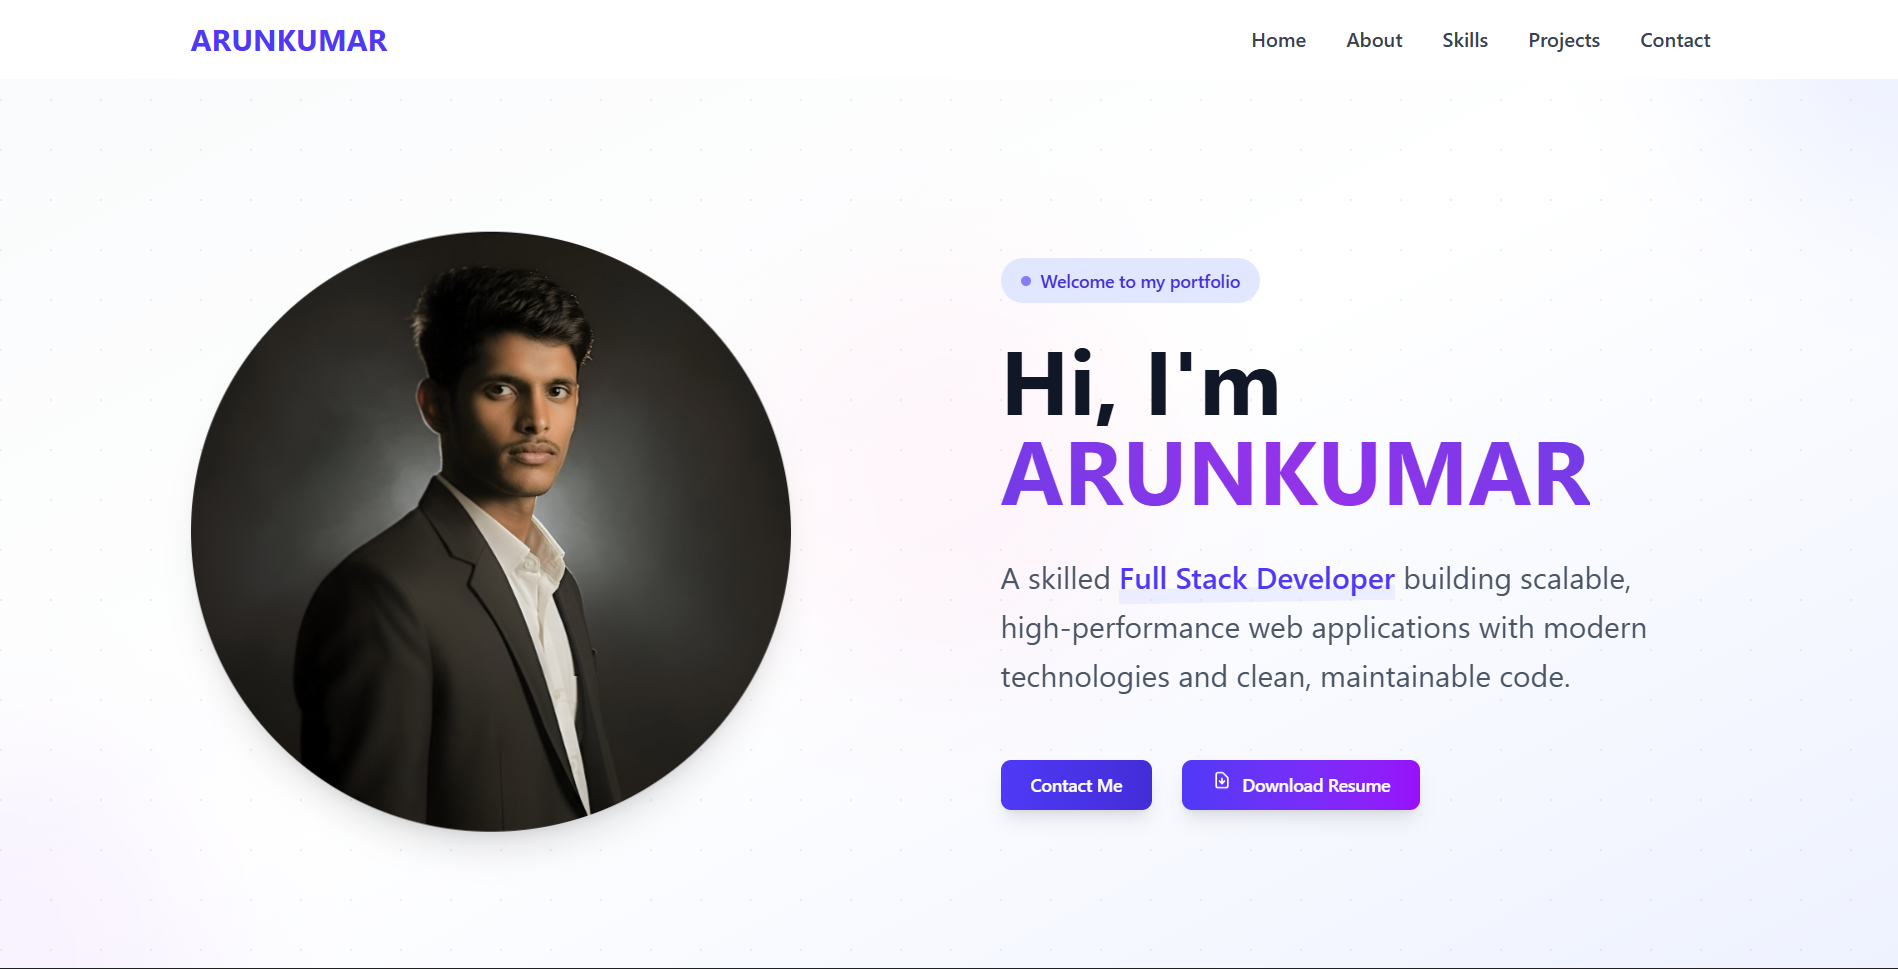
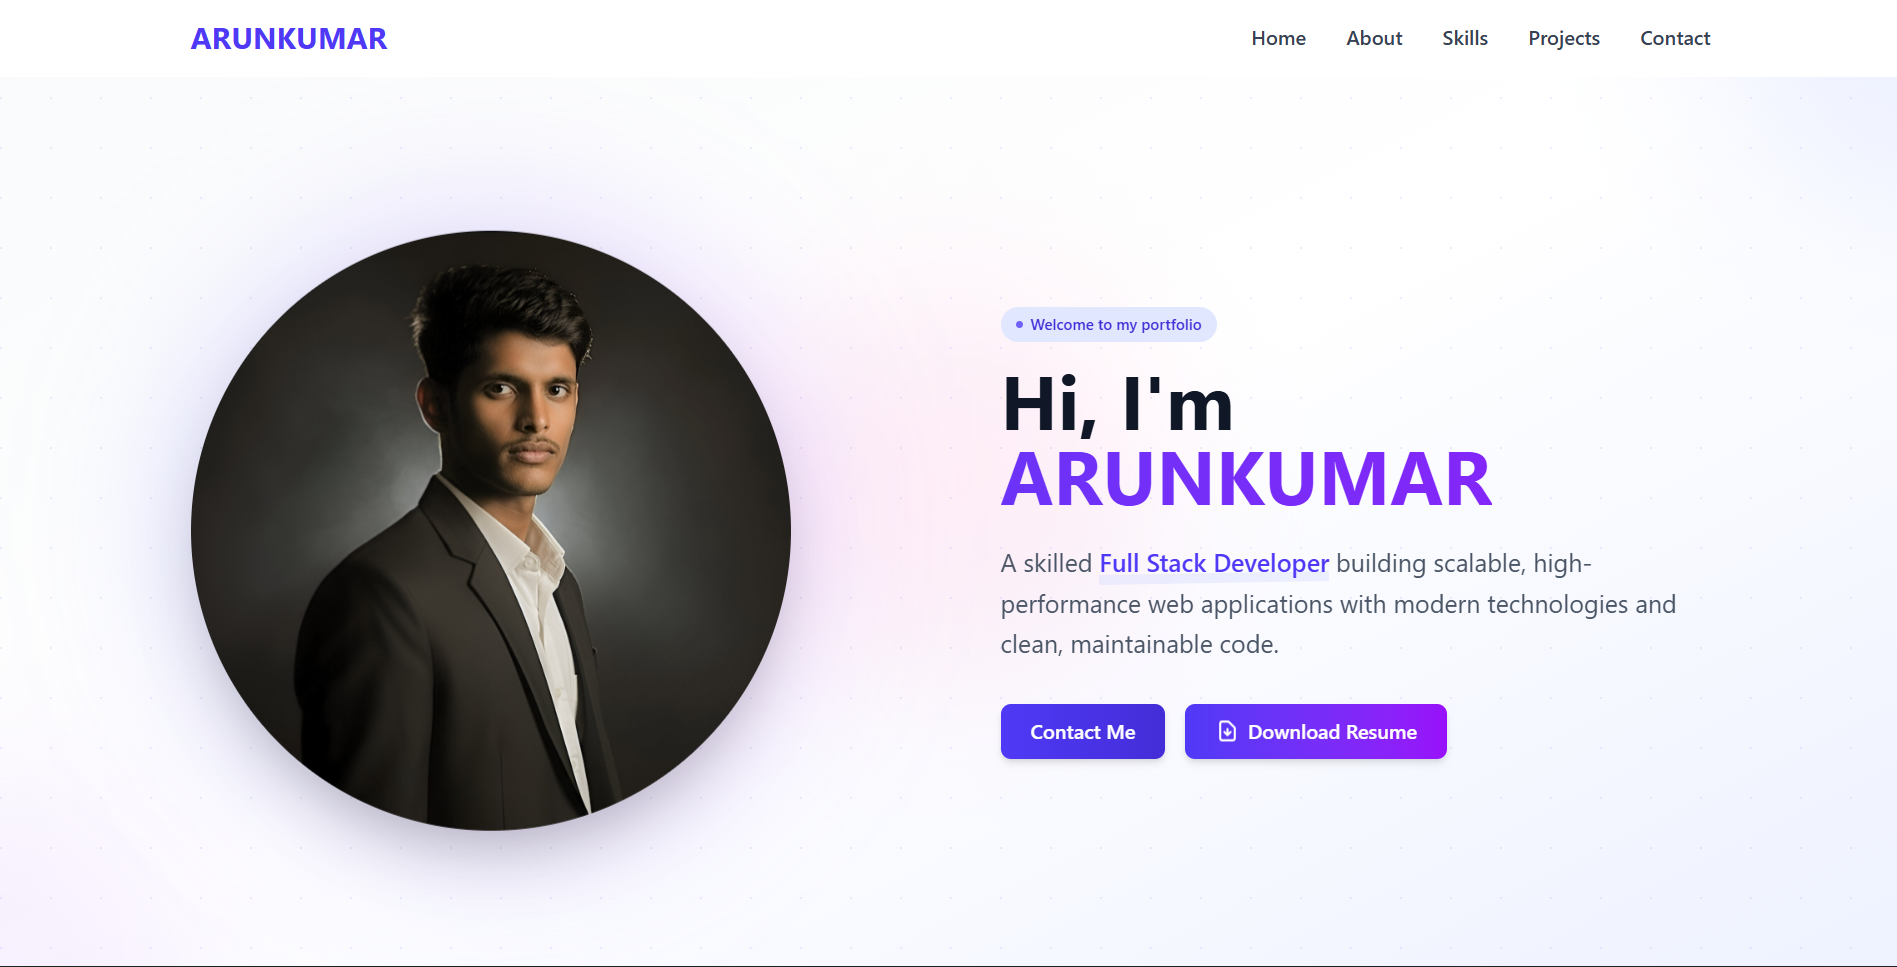
frontend issue fixed

diff --git a/src/components/Projects.jsx b/src/components/Projects.jsx
@@ -44,7 +44,7 @@ const Projects = () => {
         'A responsive portfolio website built with React.js, Tailwind CSS, and backend technologies, featuring a modern UI and optimized performance.',
       technologies: ['React.js', 'Tailwind CSS', 'Node.js', 'Express.js', 'MongoDB'],
       liveLink: '#',
-      githubLink: 'https://github.com/ARUNKUMAR-VENKATRAMAN/ARUNKUMAR-PORTFOLIO',
+      githubLink: 'https://github.com/ARUNKUMAR-VENKATRAMAN/ARUN-PORTFOLIO',
       image: 'portfolio.png',
     },
     {

diff --git a/src/components/Contact.jsx b/src/components/Contact.jsx
@@ -12,7 +12,8 @@ const Contact = () => {
   const sectionRef = useRef(null)
 
   // API URL - Works with both Vite and Create React App
-  const API_URL = import.meta.env.VITE_API_URL || 'http://localhost:5000'
+  // const API_URL = import.meta.env.VITE_API_URL || 'http://localhost:5000'
+  const API_URL = import.meta.env.VITE_API_URL || 'https://arun-portfolio-1.onrender.com'
 
   useEffect(() => {
     const observer = new IntersectionObserver(

diff --git a/src/components/Hero.jsx b/src/components/Hero.jsx
@@ -12,7 +12,7 @@ const Hero = () => {
 
   return (
     <>
-      <style jsx>{`
+      <style>{`
         @keyframes float {
           0%, 100% { transform: translateY(0px) rotate(0deg); }
           50% { transform: translateY(-20px) rotate(2deg); }

diff --git a/vite.config.js b/vite.config.js
@@ -5,5 +5,4 @@ import tailwindcss from '@tailwindcss/vite'
 // https://vite.dev/config/
 export default defineConfig({
   plugins: [react(),tailwindcss()],
-  base:"/ARUN-PORTFOLIO"
 })
